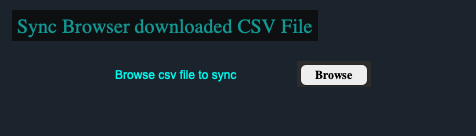
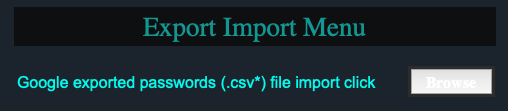
updated readme for 1.0.7 version

diff --git a/README.md b/README.md
@@ -1,95 +1,117 @@
-# GUIs
-Repo for GUI created published by me
+## 128-Bit encrypted Password Manager currently supporting to Mac (intel + Apple Silicon)/Window/Ubuntu OS.
 
-
-## Mac Supported GUIs
-<h2 style="color:grey;"> 1. PassManager.dmg </h2>
+<h2 style="color:grey;">Passmango by Apurv Chaudhary </h2>
+<p>128-bit encrypted password manager.</p>
+<p>You can download new versions from this repo.</p>
 <ul>
-<li>Mac app path in repo : PasswordManager/Mac OS supported/PassManager.dmg</li>
-<li>Window app path in repo : PasswordManager/Window OS supported/PassManager.exe</li>
-<li>Linux app path in repo : PasswordManager/Linux OS Supported/PassManager</li>
-<li>description : 128 bit encrypted password manager</li>
-<li>security : it save data in your system & not connected to network in any aspect</li>
-<li>updates : soon will be releasing new features</li>
+<li>For macOS: PasswordManager/Mac OS supported/passmango1.0.7.zip</li>
+<li>For windows: PasswordManager/Window OS supported/passmango1.0.7.exe</li>
+<li>For ubuntu: PasswordManager/Linux OS Supported/passmango1.0.5</li>
+<li style="color:#66FCF1;">Note: It manages the data in your system and does not connect to the internet in any aspect.</li>
 </ul>
 
-<h3 style="color:#66FCF1;"> How to download it </h3>
+<h3 style="color:#66FCF1;"> How to download it? </h3>
 <p>
-You can download it from mentioned path in repo. Mac will show warning as I am not registered developer, but you can select download anyway.
+You can download it from a mentioned path in repo. Mac will show warning as I am not a registered developer, but you 
+can select download anyway.
 </p>
 
-<h3 style="color:#66FCF1;"> How to install it </h3>
+<h3 style="color:#66FCF1;"> How to install it? </h3>
 <p>
-double click on PassManager.dmg and move icon to Applications & boom it's available to use
+It comes in preloaded package you don't have to install it. You can directly run it after downloading.
 </p>
 
-<h3 style="color:#66FCF1;"> How to run it </h3>
+<h3 style="color:#66FCF1;"> How to run it? </h3>
 <p>
-double click on PassManager icon from applications shown in image below, or you can add it in your dock
+click on Passmango icon wherever you downloaded the app.
 </p>
 <img src="PasswordManager/images/applications.png">
 
-<h3 style="color:#66FCF1;"> Here is the Screen View of Password Manager </h3>
+<h3 style="color:#66FCF1;"> Here is the main screen view of Passmango.</h3>
 <img src="PasswordManager/images/window.png">
+
+<h3 style="color:#66FCF1;"> What is the default passcode and how to change? </h3>
+<p>
+Default passcode is <b style="color:#66FCF1;">1234</b> you can change it from a change passcode option as shown 
+below, first it will ask current passcode then will ask twice new one.
+</p>
+<img src="PasswordManager/images/change_passcode.png">
+
+<h3 style="color:#66FCF1;"> What if I forgot my passcode? </h3>
+<img src="PasswordManager/images/forgot_pass.png">
+<ul>
+<li>'Forgot Passcode' option can handle that scenario.</li>
+<li>But this button is for admin purpose.</li>
+<li>In that case, <a href="https://www.apurvchaudhary.com/contact/">Contact Admin</a></li>
+</ul>
+
+<h3 style="color:#66FCF1;"> How to save password in it? </h3>
+Fill details such as 
+<li>Name</li>
+<li>Username</li>
+<li>Password (it will be in hidden mode, but you can toggle by switch to view/hide)</li>
+<li>URL i.e optional</li>
+<li>mode has two options described below
+<ol>
+    <li>Plain/Text: will save password in the same text form <b style="color:red;">(Not recommended!)</b></li>
+    <li>Encrypify(Recommended): will save password in encrypted form</li>
+    </ol>
+<img src="PasswordManager/images/fill.png">
+
+<li>click on save after filling, it will ask for saving without url, if not provided:
+<ol>
+<li>if you want to add url, either add initially or after asking.</li>
+<li>if you don't want to add url, then select 'No'</li>
+</ol>
+<img src="PasswordManager/images/url_ask.png">
+
+<h3 style="color:#66FCF1;"> Saved Passwords Menu </h3>
+<img src="PasswordManager/images/saved_list.png">
+<ul> 
+<li>click on dropdown to select password from the list or enter text to search from the list.</li>
+<li>click on any button to show/change/delete and enter passcode</li>
+</ul>
+<img src="PasswordManager/images/show_password.png">
+<ul>
+<li>You can see the details. Also, buttons to copy: username, password, url.</li>
+<li>You can directly open the url via button with internet symbol.</li>
+</ul>
+
+<h3 style="color:#66FCF1;"> How to update data for any entry?</h3>
+<ul>
+<li>click on the Change button, you will be asked to enter passcode.</li>
+<li>You can update any/all the data such as Name, Username, Password, URL and click submit.</li>
+</ul>
+<br>
+<img src="PasswordManager/images/change_data.png">
+
+<h3 style="color:#66FCF1;"> What is Export Import Menu? </h3>
+<p>
+You can download passwords csv from Chrome browser and click on browse in Sync Browser password section. It will 
+save password one by one.
+</p>
+<ul>
+<li>It will ask mode of save once, i.e., Plain or Encrypify.</li>
+<li>It will ask URL each time if not present in csv, you can select yes/no according to your preference.</li>
+</ul>
+<img src="PasswordManager/images/browser_sync.png">
+
+<h3 style="color:#66FCF1;"> How can we share data from one system to another? </h3>
+<ul>
+<li style="color:red;">Note: Do not share exported .mango file to somebody who can compromise your data, as this data 
+is in text form 
+which is not encrypted.</li>
+<li>click Export .mango which will generate a csv on desktop with all data in text form</li>
+<li>click Import .mango to import data from .mango file.</li>
+</ul>
+<img src="PasswordManager/images/export_import.png">
 
 <h3 style="color:#66FCF1;"> DISCLAIMER </h3>
 For disclaimer click below right corner disclaimer button
 
-<h3 style="color:#66FCF1;"> What is default passcode & how to change </h3>
-<p>
-Default passcode is 1234 you can change it from change passcode option as shown below, first it will ask current passcode then will ask twice new one.
-</p>
-<img src="PasswordManager/images/change_passcode.png">
-
-<h3 style="color:#66FCF1;"> How to save password to it </h3>
-<p>
-Fill details such as 
-<li>app name</li>
-<li>username</li>
-<li>password (it will be in hidden mode, but you can toggle by eye switch)</li>
-<li>url i.e optional</li>
-<li>
-mode has two options described below
-<ol>
-<li>Plain/Text : will save password in same string form</li>
-<li>Encrypify(Preferred): will save password in encrypted form</li>
-</ol>
-</li>
-<img src="PasswordManager/images/fill.png">
-<li>click on save after filling, it will ask for saving without url, if url not provided else it will save. 
-Answer yes or no as per your preference for providing url.</li>
-<img src="PasswordManager/images/url_ask.png">
-</p>
-
-<h3 style="color:#66FCF1;"> How to see password </h3>
-<ul>
-<li>
-click on saved list and select for which app you want to see password & click on show password.
-</li>
-<img src="PasswordManager/images/saved_list.png">
-<li>
-First it will ask your passcode, if provided correctly then click on OK or press Enter.
-</li>
-<img src="PasswordManager/images/show_by_passcode.png">
-<li>
-If correct passcode provided, it will show your password.
-</li>
-<img src="PasswordManager/images/show_password.png">
-</ul>
-
-<h3 style="color:#66FCF1;"> How to change password for saved app </h3>
-<ul>
-<li>select app from saved list & click on Change Password</li>
-<img src="PasswordManager/images/change_password.png">
-<li>First it will ask to enter passcode & then it will ask new password to be updated. Then lick on OK or Enter it will update your password</li>
-<img src="PasswordManager/images/new_password.png">
-</ul>
-
-<h3 style="color:#66FCF1;"> What is Browser Sync feature </h3>
-<p>
-You can download passwords csv from Chrome browser & click on browse in Sync Browser password section. It will save password one by one asking you about mode(Plain or Encrypify) once & url each time.
-</p>
-<img src="PasswordManager/images/browser_sync.png">
-
 <h3 style="color:#66FCF1;"> Like & Share </h3>
-Kindly give a like to repo, if you really find it useful.
+Kindly give a like to repo or send me a thankyou note on my official website, if you really find this open source 
+utility useful and safe. Do share it with your friends.
+<a href="https://www.apurvchaudhary.com/contact/">Send me a thankyou note.</a>
+
+<p>Here in readme I have attached SS of macOS, but it will be somewhat similar in all OS.</p>
